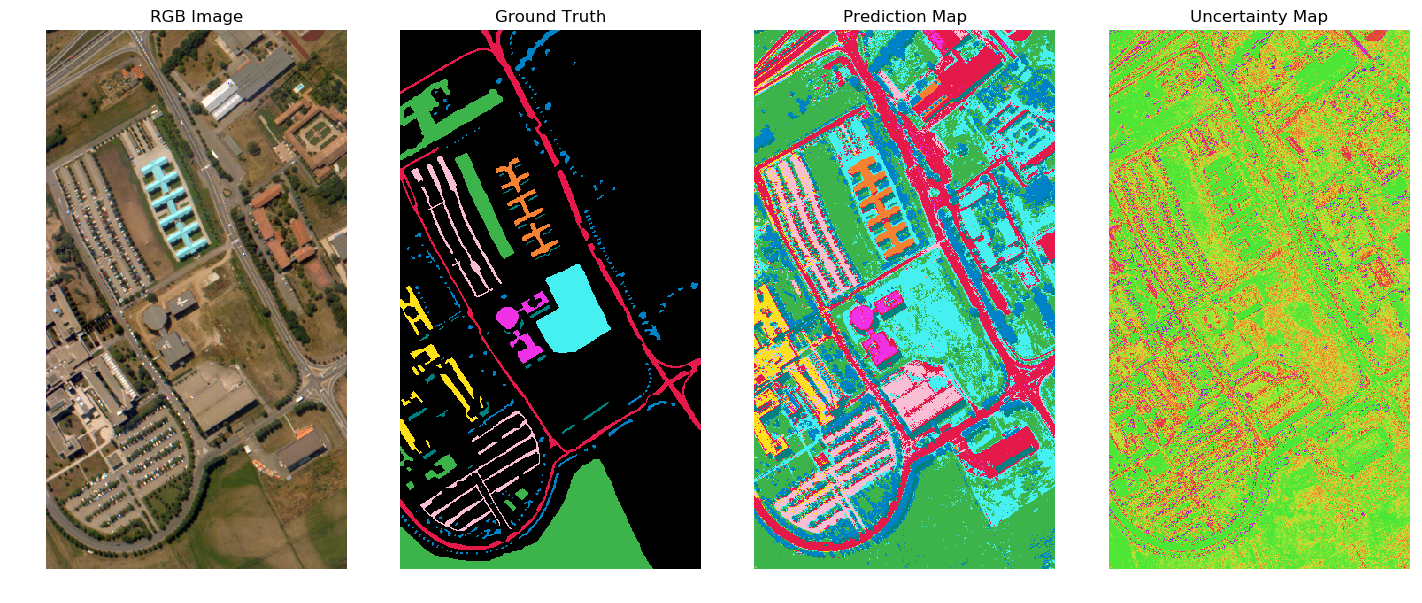
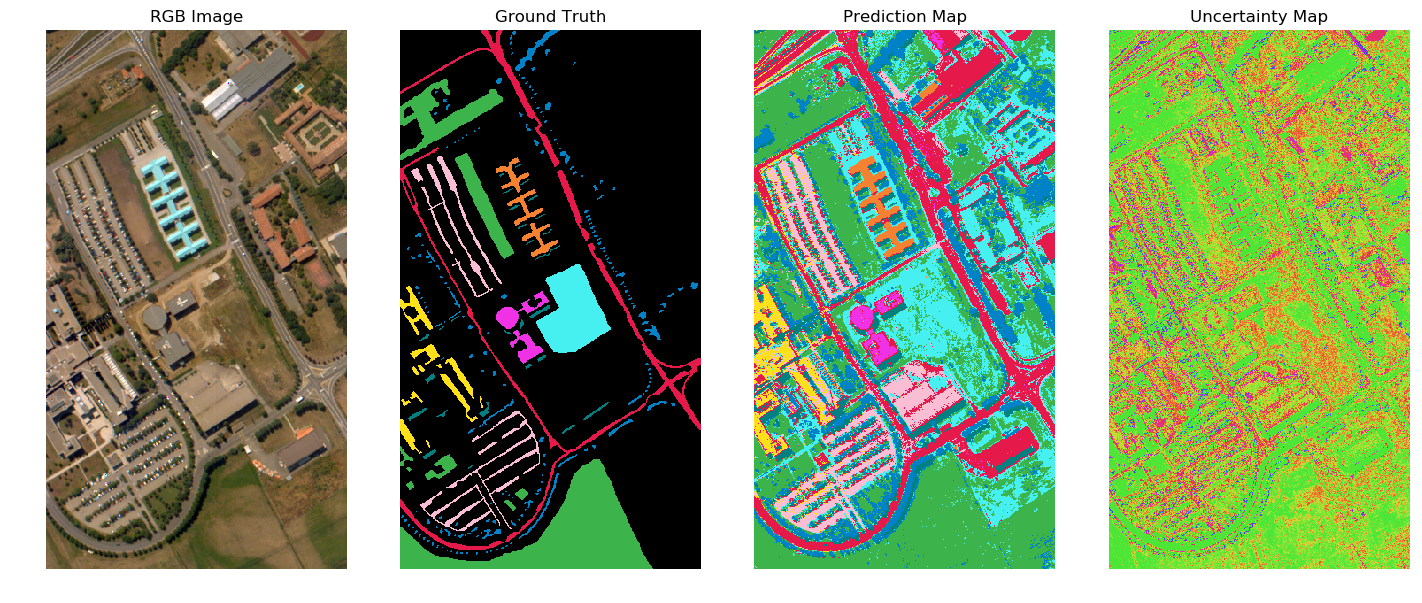
Corrección a generate_maps
Los colores de uncertainty map ahora se distribuyen equitativamente en MAP_GRADIENTS

Changed region(s): [[0.7736, 0.0299, 0.9902, 0.9552]]

diff --git a/FPGA_accelerator_for_GBDT/high_performance_processor_python_code_and_data/generate_maps.py b/FPGA_accelerator_for_GBDT/high_performance_processor_python_code_and_data/generate_maps.py
@@ -42,7 +42,7 @@ def _uncertainty_to_map(uncertainty, num_classes, slots=0, max_H=0):
     # Actualise `slots` in case of the default value
     if slots == 0:
         slots = int(max_H * 10)
-    
+
     # Prepare output structures and ranges
     u_map = np.zeros(uncertainty.shape, dtype="int")
     ranges = np.linspace(0.0, max_H, num=slots+1)
@@ -245,13 +245,18 @@ def plot_maps(output_dir, name, shape, num_classes, wl, img, y, pred_map,
     # Create uncertainty map
     u_map, labels = _uncertainty_to_map(H_map, num_classes, slots=slots,
                                         max_H=max_H)
-    
+
     # Generate and show coloured uncertainty map
     if max_H == 0:
-        max_H = np.ceil(np.max(u_map) * 10) / 10
+        max_H = np.ceil(np.max(H_map) * 10) / 10
     if slots == 0:
         slots = int(max_H * 10)
-    H_img = _map_to_img(u_map, shape, gradients[:slots])
+
+    # Calculate the equidistant indexes to select the gradient colours
+    indexes = [int(i * (len(gradients) - 1) / (slots - 1)) for i in range(slots)]
+    gradient_colours = [gradients[i] for i in indexes]
+
+    H_img = _map_to_img(u_map, shape, gradient_colours)
     ax4.imshow(H_img)
     ax4.set_title("Uncertainty Map")
     
